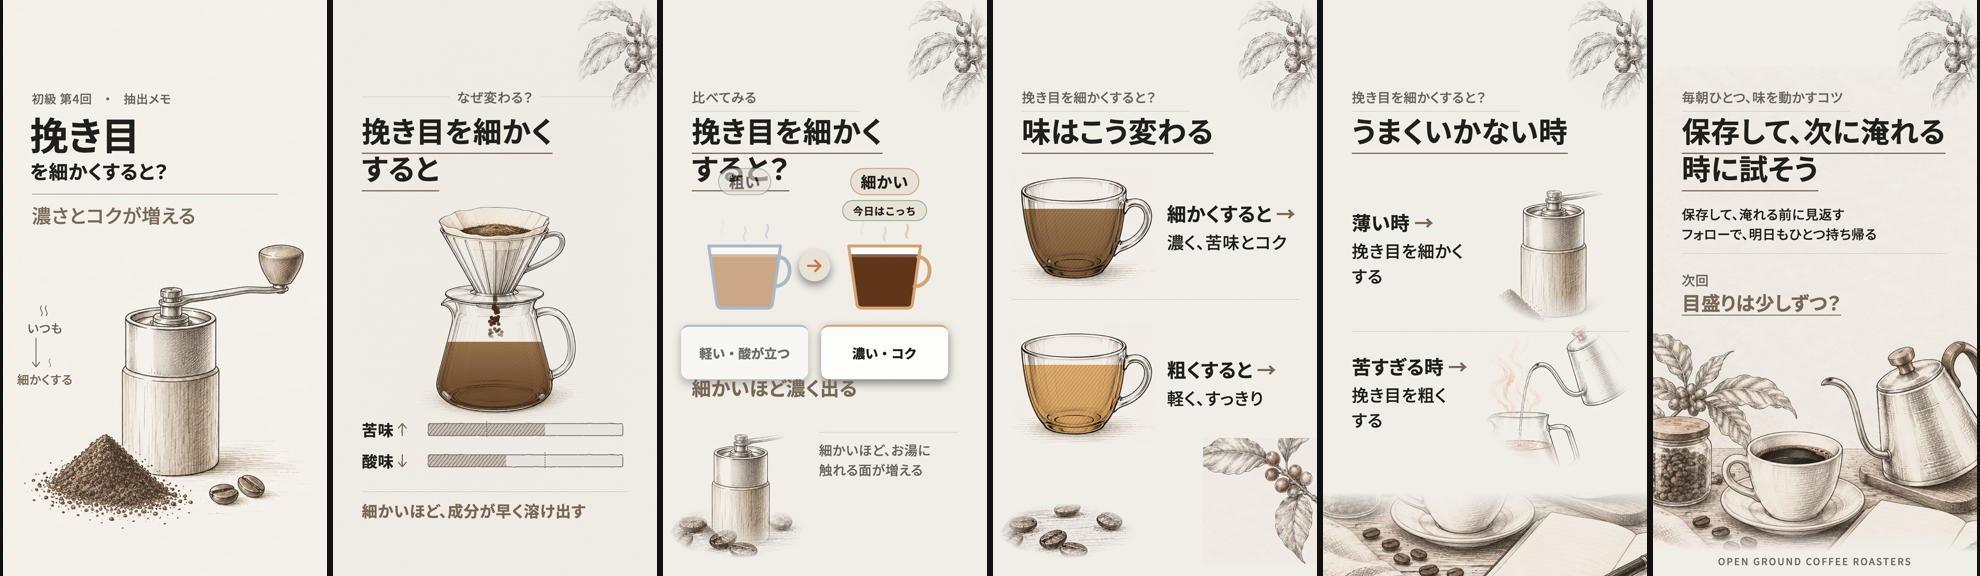
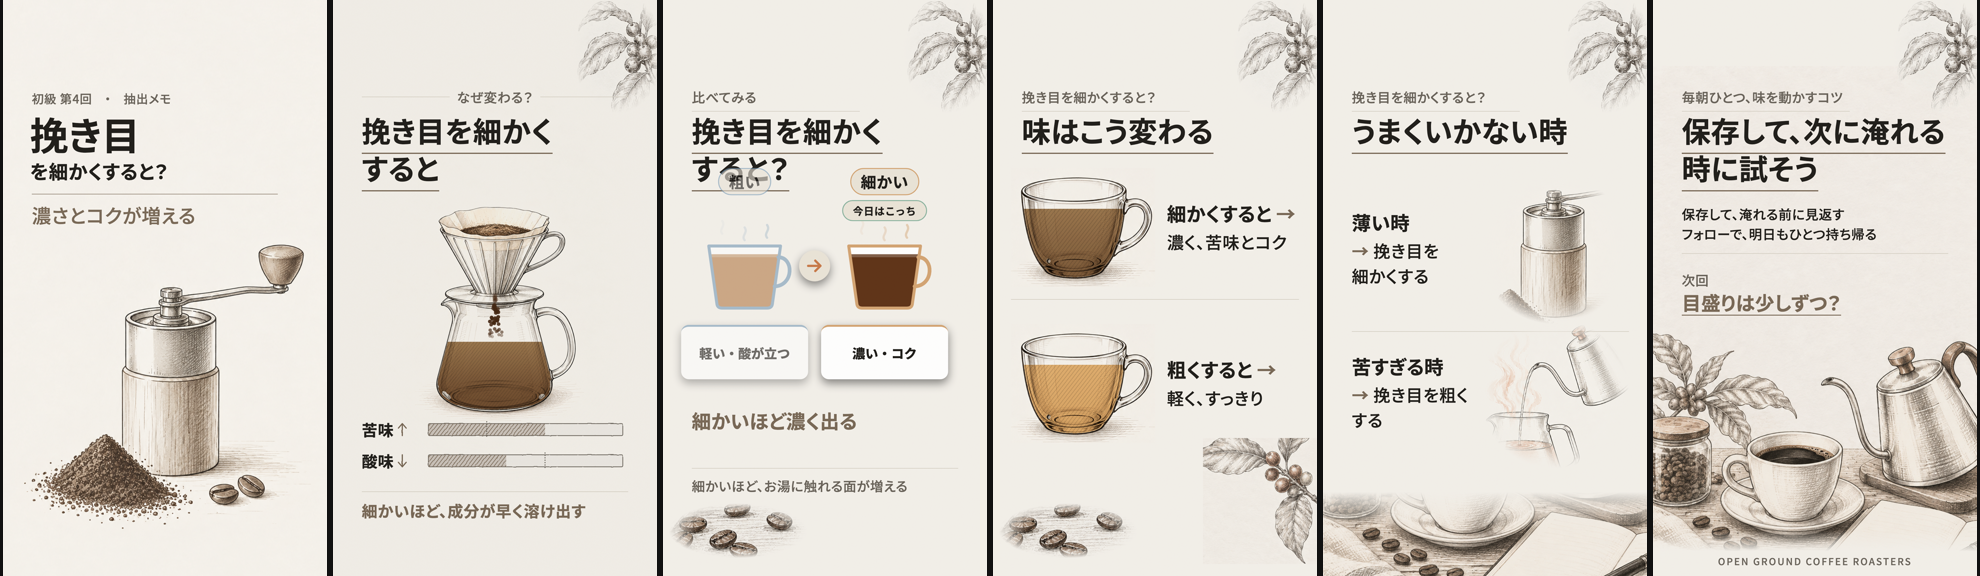
fix(looks): non-gauge diagrams keep their caption clear, the cover side note only on temperature episodes, tip arrows lead the fix; previews of the next four episodes

diff --git a/src/looks/LabConte.tsx b/src/looks/LabConte.tsx
@@ -174,14 +174,14 @@ export const LabVisualConte: React.FC<{ ep: LookEpisode; slide: LessonVisualSlid
           </div>
         </InkContext.Provider>
       )}
-      <In at={60} style={{ top: 1250, left: 96, right: 96 }}>
+      <In at={60} style={{ top: v.type === "scale" ? 1250 : 1360, left: 96, right: 96 }}>
         <div style={T(64, 700, ep.accent)}>{v.caption}</div>
       </In>
       {/* the lower band of the storyboard: the episode's drawing left, the reason right */}
-      <In at={70} style={{ top: 1400, left: 40 }}>
+      <In at={70} style={{ top: 1400, left: 40, display: v.type === "scale" ? "block" : "none" }}>
         <Doodle subject={subjectFor(ep.id)} size={440} />
       </In>
-      <In at={80} style={{ top: 1440, left: 520, right: 96 }}>
+      <In at={80} style={{ top: v.type === "scale" ? 1440 : 1560, left: v.type === "scale" ? 520 : 96, right: 96 }}>
         <div style={{ height: 2, background: RULE, marginBottom: 24 }} />
         <div style={T(LAB_TYPE.label, 500, GREY)}>{ep.why}</div>
       </In>
@@ -273,9 +273,12 @@ export const LabTipsConte: React.FC<{ ep: LookEpisode; slide: LessonTipsSlide }>
           <div style={{ display: "flex", alignItems: "center", gap: 20 }}>
             <div style={{ flex: 1 }}>
               <div style={T(64, 700, INK)}>
-                {t.problem} <span style={{ color: ep.accent }}>→</span>
+                {t.problem}
               </div>
-              <div style={T(LAB_TYPE.body, 500, INK, { marginTop: 10 })}>{t.fix}</div>
+              <div style={T(LAB_TYPE.body, 500, INK, { marginTop: 10 })}>
+                <span style={{ color: ep.accent, fontWeight: 700 }}>→ </span>
+                {t.fix}
+              </div>
             </div>
             <Doodle subject={doodles[i]} size={tips.length > 2 ? 360 : 500} />
           </div>

diff --git a/src/looks/Looks.tsx b/src/looks/Looks.tsx
@@ -147,6 +147,7 @@ const LabCover: React.FC<{ ep: LookEpisode }> = ({ ep }) => (
       <div style={type("head", 500, ep.accent, { marginTop: 24 })}>{ep.topic}</div>
     </In>
     {/* the storyboard's little side note: the usual way ↓ today's way */}
+    {ep.pillar === "temp" ? (
     <In at={16} style={{ top: 1000, left: 40, width: 200, textAlign: "center" }}>
       <svg width={60} height={60} viewBox="0 0 60 60"><path d="M18 52 c 10 -12 -10 -20 0 -32 M34 52 c 10 -12 -10 -20 0 -32" stroke={GREY} strokeWidth={3} fill="none" strokeLinecap="round" /></svg>
       <div style={type("aux", 500, GREY)}>いつも</div>
@@ -154,6 +155,7 @@ const LabCover: React.FC<{ ep: LookEpisode }> = ({ ep }) => (
       <svg width={60} height={60} viewBox="0 0 60 60"><path d="M26 52 c 8 -10 -8 -16 0 -26" stroke={GREY} strokeWidth={3} fill="none" strokeLinecap="round" opacity={0.6} /></svg>
       <div style={type("aux", 500, ep.accent)}>{ep.effect[0]?.label}</div>
     </In>
+    ) : null}
   </AbsoluteFill>
 );
 
